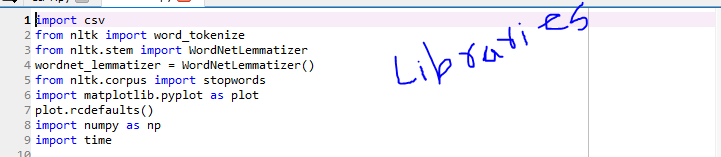
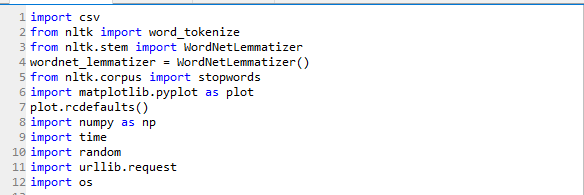
Adding logic for sampling the dataset based on keywords

Changed region(s): [[0.0, 0.0, 1.0, 1.0], [0.524, 0.2803, 0.7089, 0.535], [0.6781, 0.1783, 0.7397, 0.3057]]

diff --git a/Lab1/Source_Code/newdata.py b/Lab1/Source_Code/newdata.py
@@ -7,6 +7,9 @@ import matplotlib.pyplot as plot
 plot.rcdefaults()
 import numpy as np
 import time
+import random
+import urllib.request
+import os
 
 start = int(round(time.time() * 1000))
 
@@ -14,6 +17,7 @@ keywords = ['yellow', 'red', 'stop', 'road','traffic']
 punctuations = "?:!.,;"
 stop_words = set(stopwords.words('english'))
 
+dataset_path = r'C:\Users\praneeth\Documents\Studies\Big_Data_Analytics\Lab1\dataset'
 with open(r'C:\Users\praneeth\Documents\Studies\Big_Data_Analytics\Lab1\dataset\SBU_captioned_photo_dataset.csv') as csv_file:
     csv_reader = csv.reader(csv_file, delimiter=',')
     data = list(csv_reader)
@@ -21,6 +25,12 @@ with open(r'C:\Users\praneeth\Documents\Studies\Big_Data_Analytics\Lab1\dataset\
     urls =[]
     my_captions = []
     my_urls = []
+    # Arrays for storing sample images based on Keywords
+    yellow = []
+    red = []
+    stop = []
+    road = []
+    traffic = []
     word0_count = 0
     word1_count = 0
     word2_count = 0
@@ -54,19 +64,61 @@ with open(r'C:\Users\praneeth\Documents\Studies\Big_Data_Analytics\Lab1\dataset\
                 my_urls.append(urls[new_index])
                 if lemmit_word == keywords[0]:
                    word0_count+=1
+                   yellow.append(urls[new_index])
                 if lemmit_word == keywords[1]:
                    word1_count+=1
+                   red.append(urls[new_index])
                 if lemmit_word == keywords[2]:
                    word2_count+=1
+                   stop.append(urls[new_index])
                 if lemmit_word == keywords[3]:
                    word3_count+=1
+                   road.append(urls[new_index])
                 if lemmit_word == keywords[4]:
                    word4_count+=1
+                   traffic.append(urls[new_index])
+                   
 # Pushing the consolidated dataset into new csvfile            
 with open('NewDataSet.csv', 'w') as f:
     writer = csv.writer(f, delimiter=',', lineterminator='\n')
     writer.writerows(zip(my_captions, my_urls))
+    
+# Logic for downloading an image from url    
+def download_image(url,length,myPath):
+    name = random.randrange(1,length)
+    filename = str(name)+".jpg"
+    fullfilename = os.path.join(myPath, filename)
+    urllib.request.urlretrieve(url,fullfilename)     
 
+# adding path for new folders of Keywords
+yellow_path  = os.path.join(dataset_path, 'yellow')
+red_path     = os.path.join(dataset_path, 'red')
+stop_path    = os.path.join(dataset_path, 'stop')
+road_path    = os.path.join(dataset_path, 'road')
+traffic_path = os.path.join(dataset_path, 'traffic')
+
+yellow_length = len(yellow) 
+red_length = len(red)
+stop_length = len(stop)
+road_length = len(road)
+traffic_length = len(traffic)
+   
+# Sampling Images based on Key_words
+for value in yellow:
+    download_image(value,yellow_length,yellow_path)
+    
+for value in red:
+    download_image(value,red_length,red_path)
+
+for value in stop:
+    download_image(value,stop_length,stop_path)
+
+for value in road:
+    download_image(value,road_length,road_path)
+
+for value in traffic:
+    download_image(value,traffic_length,traffic_path)    
+        
 # Showing the Keyword count     
 y_pos = np.arange(len(keywords))
 performance = [word0_count,word1_count,word2_count,word3_count,word4_count]
